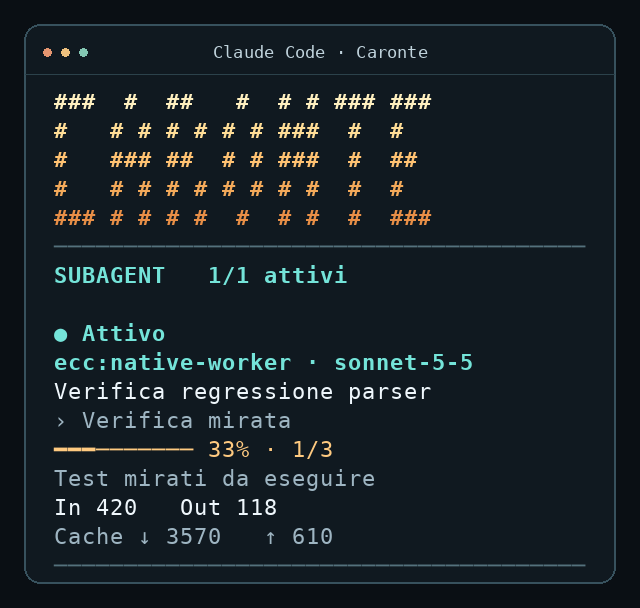
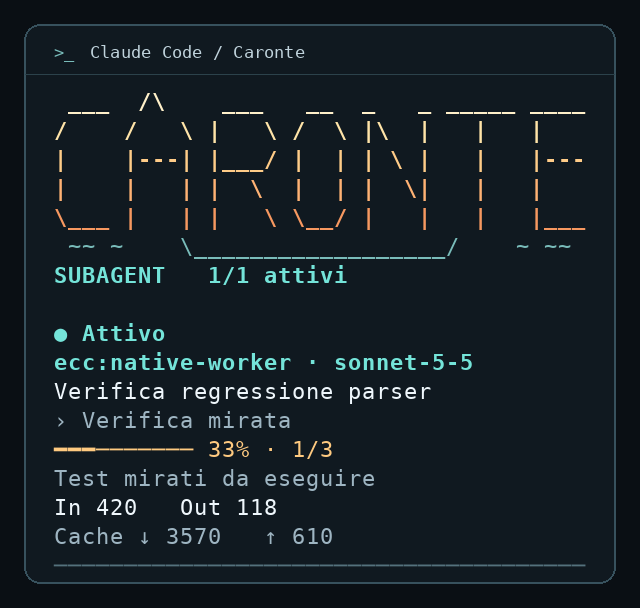
Redesign the CARONTE terminal wordmark

diff --git a/.claude/skills/caronte-panel/hooks/view.js b/.claude/skills/caronte-panel/hooks/view.js
@@ -1,12 +1,15 @@
-const logo = [
-  '###  #  ##   #  # # ### ###',
-  '#   # # # # # # ###  #  #  ',
-  '#   ### ##  # # ###  #  ## ',
-  '#   # # # # # # # #  #  #  ',
-  '### # # # #  #  # #  #  ###',
+const wordmark = [
+  " ___  /\\    ___   __  _   _ _____ ____",
+  "/    /   \\ |   \\ /  \\ |\\  |   |   |",
+  "|    |---| |___/ |  | | \\ |   |   |---",
+  "|    |   | |  \\  |  | |  \\|   |   |",
+  "\\___ |   | |   \\ \\__/ |   |   |   |___",
 ];
-
-const amber = ['#FFF0BF', '#FFDD96', '#FFC272', '#F4AA5A', '#E88F47'];
+const wordmarkWidth = Math.max(...wordmark.map(row => row.length));
+const hull = '~~ ~    \\__________________/    ~ ~~';
+const compactHull = '.~ \\___________/ ~.';
+const amber = ['#FFF0C9', '#FFE4A8', '#FFCC88', '#FFB274', '#F79860'];
+const wake = '#79BCBA';
 const aqua = '#74E4D9';
 const ink = '#EFF7FC';
 const muted = '#9EB5C2';
@@ -71,6 +74,13 @@ export function drawPanel(Box, Text, columns, cards) {
   });
   const rule = line('─'.repeat(width), dim);
   const gap = line(' ');
+  const centered = (value, color, bold = false, blockWidth = value.length) =>
+    line(' '.repeat(Math.floor((width - blockWidth) / 2)) + value, color, bold);
+  const branding = width >= wordmarkWidth
+    ? [...wordmark.map((row, index) => centered(row, amber[index], true, wordmarkWidth)),
+      centered(hull, wake)]
+    : [centered(width >= compactHull.length ? '.-- CARONTE --.' : 'CARONTE', warm, true),
+      width >= compactHull.length ? centered(compactHull, wake) : rule];
   const count = cards.filter(card => isActive(card.status)).length;
   const number = new Intl.NumberFormat('it-IT');
   const checkLabels = {
@@ -81,8 +91,7 @@ export function drawPanel(Box, Text, columns, cards) {
   };
 
   const children = [
-    ...(width >= logo[0].length ? logo.map((row, index) => line(row, amber[index], true)) : [line('C A R O N T E', warm, true)]),
-    rule,
+    ...branding,
     line(`SUBAGENT   ${count}/${cards.length} attivi`, aqua, true),
   ];
   if (!cards.length) children.push(gap, line('In attesa di una delega', muted));

diff --git a/README.md b/README.md
@@ -37,7 +37,7 @@ See [ECC completo e Caronte](GUIDA.md#ecc-completo-e-caronte) for setup.
 
 ### Live subagent panel
 
-![CARONTE sidebar in Claude Code showing an active subagent, checkpoint progress and token usage](docs/images/caronte-subagent-panel.png)
+![The CARONTE ASCII wordmark above an active subagent, checkpoint progress and token usage in Claude Code](docs/images/caronte-subagent-panel.png)
 
 *Claude Code demo with a test subagent and simulated token usage.*
 
